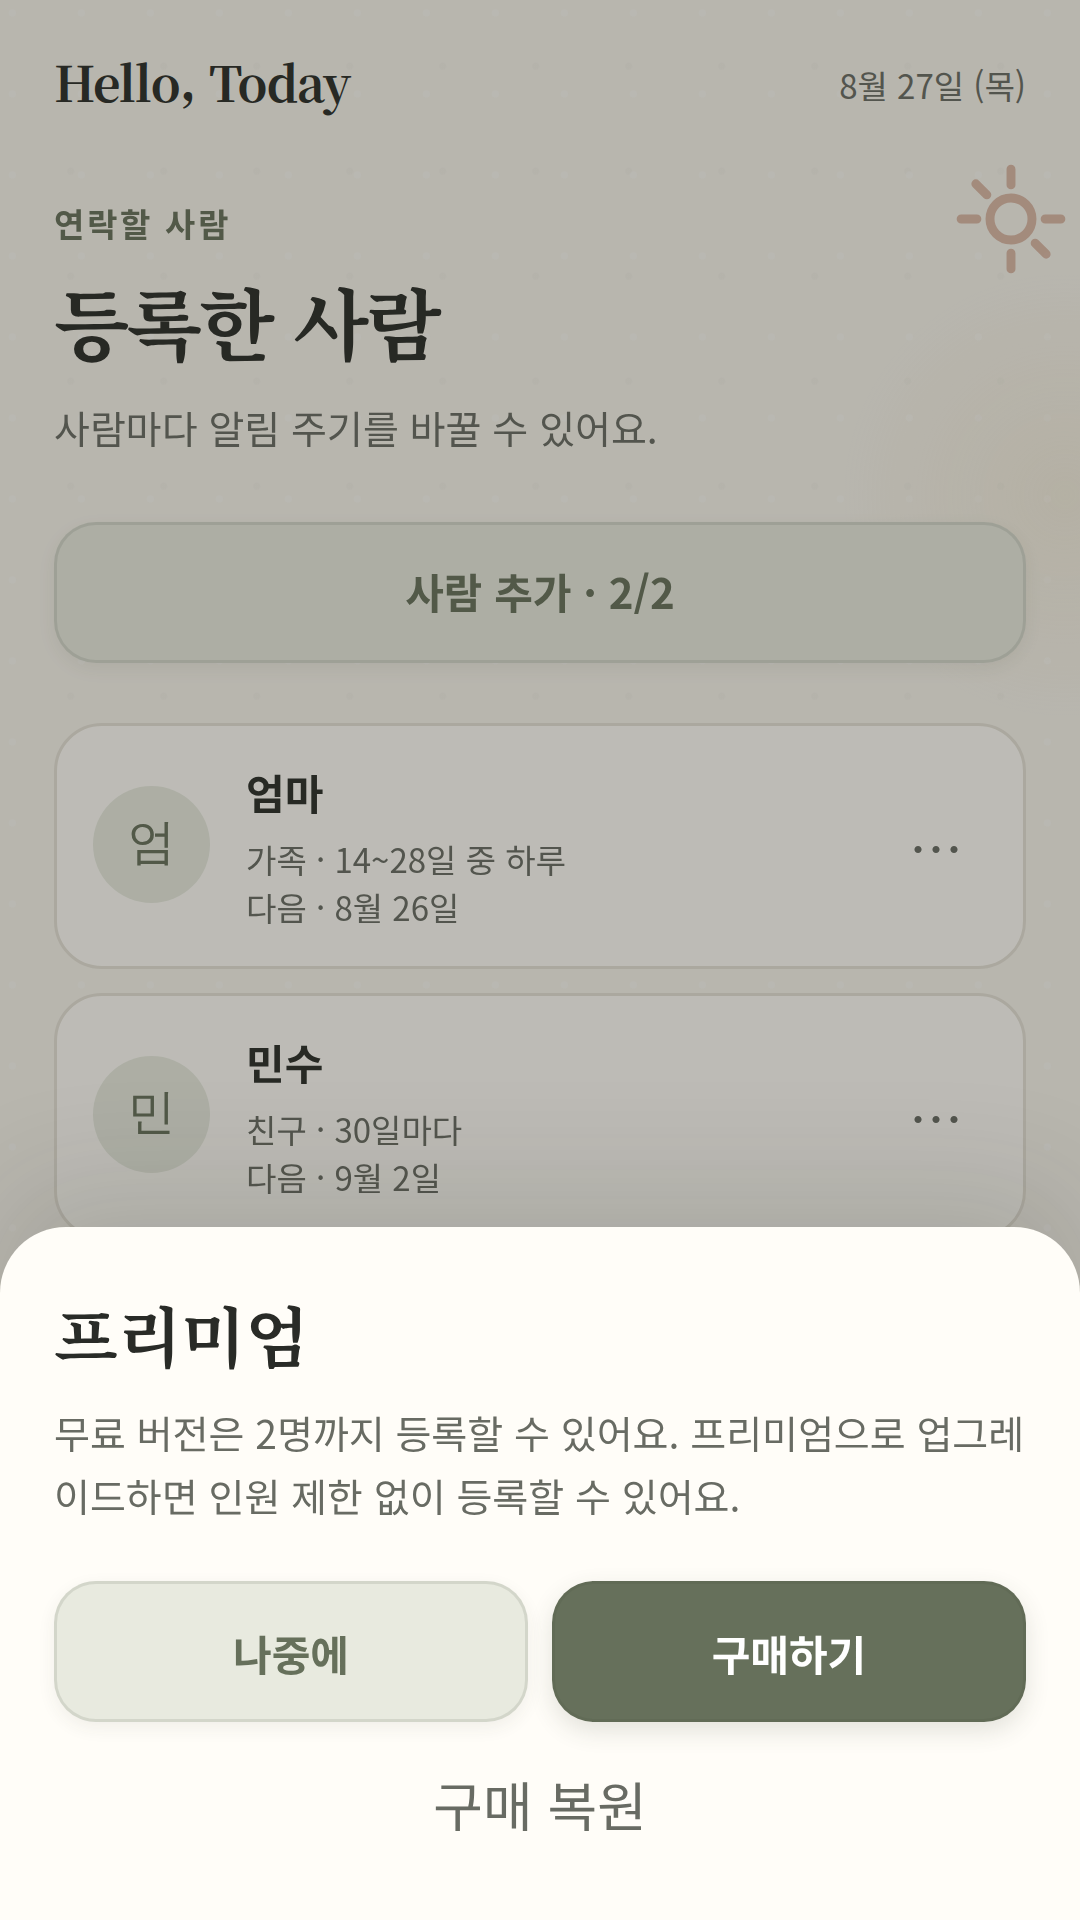
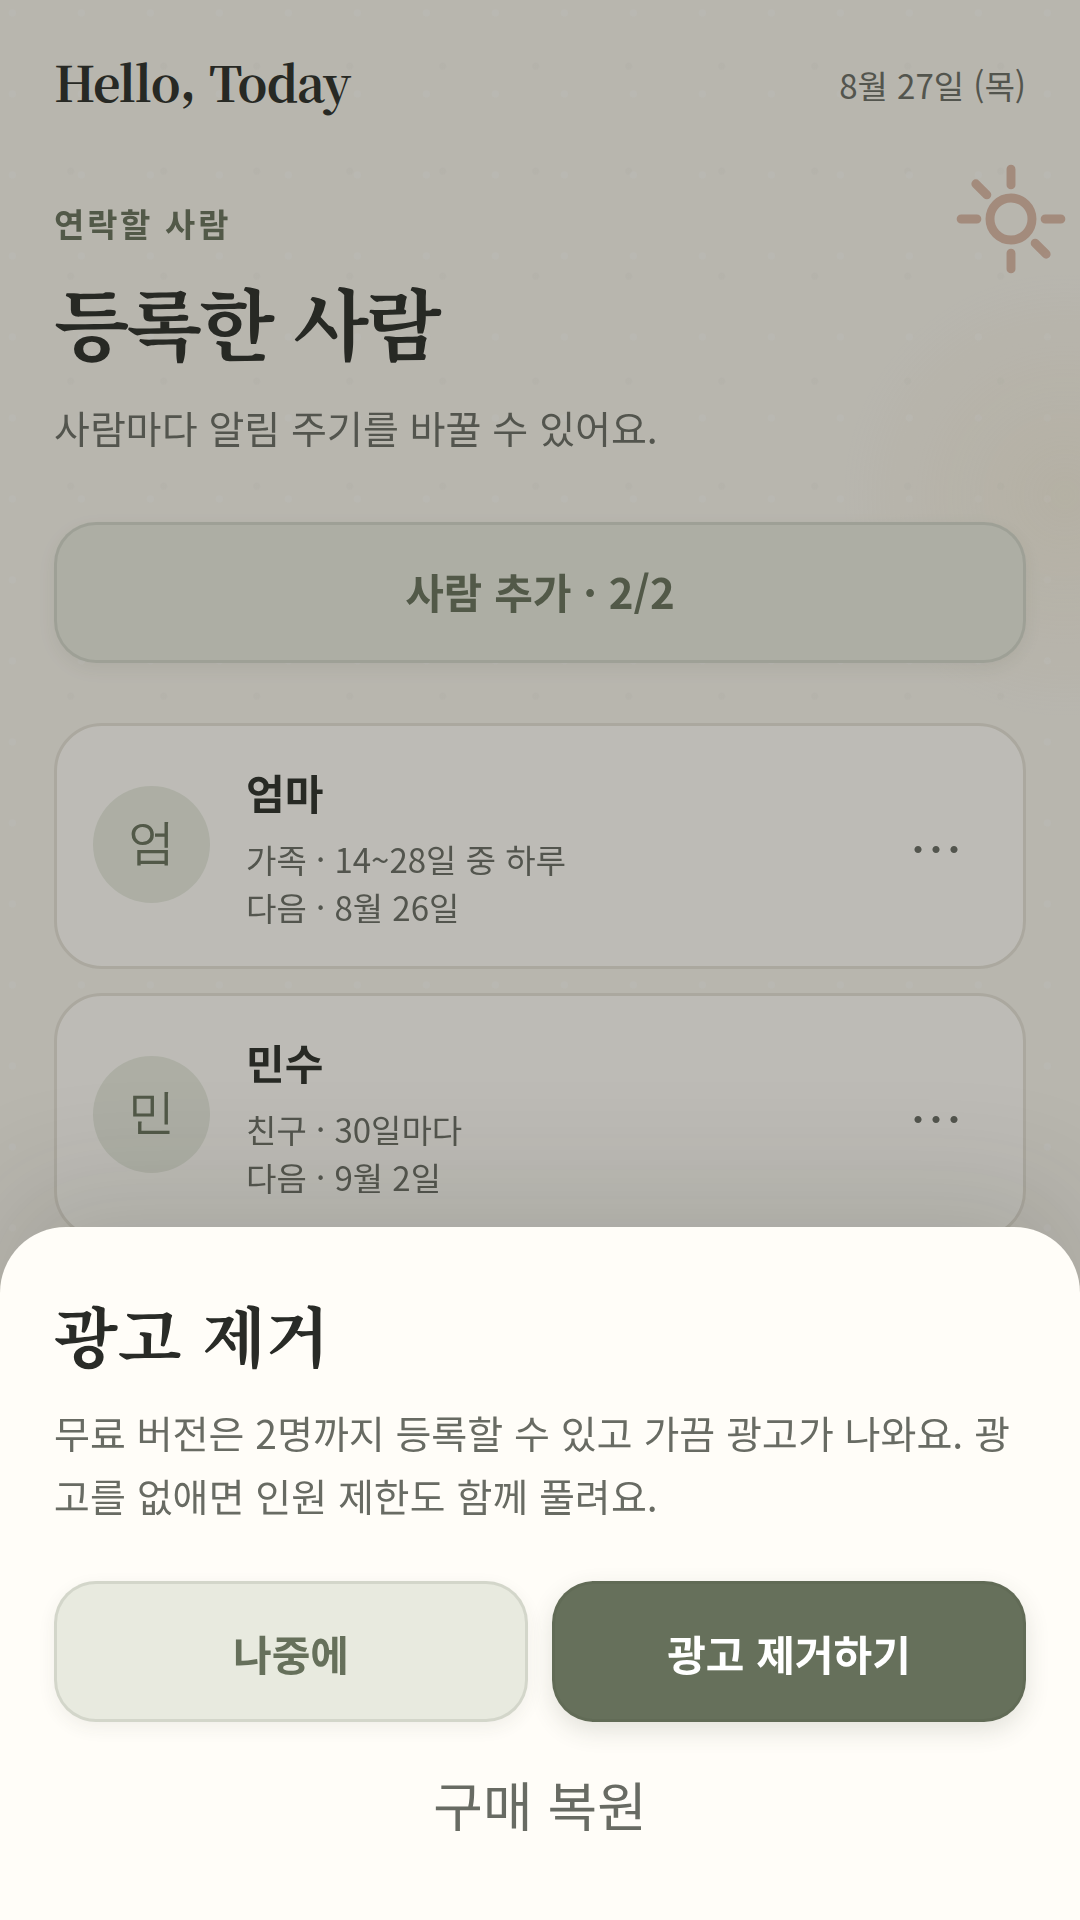
광고 제거 프레이밍으로 전환 + Google AdMob 전면 광고 통합
요청: 프리미엄 단일 상품을 "광고 제거"로 프레이밍하고, 인원 제한 해제는
덤으로 따라오게. 결제 메커니즘(PremiumBilling)은 그대로 재사용 -- 상품
ID만 premium_unlimited_people -> remove_ads로 변경(실제 구매 이력이
없는 지금이 이름을 바로잡을 유일한 타이밍), 유저 대상 카피만 전부
"광고 제거" 중심으로 다시 씀. 코드 레벨 식별자(PremiumBilling,
state.settings.premium, onPremiumStatus 등)는 그대로 둠.

신규: Google AdMob 전면 광고
- app/build.gradle.kts: com.google.android.gms:play-services-ads:25.3.0
- AndroidManifest.xml: INTERNET/ACCESS_NETWORK_STATE 권한 추가(광고에
  실제 네트워크 필요, 기존엔 없었음), AdMob APPLICATION_ID meta-data
  (Google 공개 테스트 App ID)
- InterstitialAdManager.java (신규): "연락했어요" 기록 3번에 1번만 전면
  광고 표시(index.html의 complete()에서 딱 한 군데 호출), 광고 제거
  구매 시 즉시 중단. 광고 단위 ID도 Google 공개 테스트 ID 사용 중 --
  실제 배포 전 AdMob 계정 만들어서 진짜 ID로 교체 필요
- index.html: 프리미엄 시트/설정 행 카피를 "광고 제거"(+인원 제한 보너스
  언급) 중심으로 재작성

로컬 검증: node test-regression.js 통과(광고 SDK 목 추가), JS 문법 체크
통과, AndroidManifest.xml에서 XML 주석 안에 "--"를 써서 생긴 파싱 에러를
로컬 gradlew 실행으로 미리 잡아 수정함(XML 주석은 "--"를 내용에 못 씀).

갱신: 개인정보처리방침(Artifact, 광고 SDK 고지 추가 -- "광고 없음" 문구
삭제), README, PLAY_CONSOLE_LAUNCH.md(광고 정책 신고/Data safety/AdMob
연동 절차/테스터 전달문), 프리미엄+설정 스토어 스크린샷 재캡처.

미완료(다음 AdMob 계정 생성 후 이어서): 실제 App ID/광고 단위 ID 교체,
UMP(EEA/영국 동의) SDK 연동.

Claude-Session: https://claude.ai/code/session_018c6RYZtD4SNnfh7zxgqkwA

diff --git a/hellotoday-app/test-regression.js b/hellotoday-app/test-regression.js
@@ -51,7 +51,7 @@ const context = {
   },
   window: {addEventListener: () => {}},
   navigator: {language: 'ko-KR'},
-  HelloNative: {schedule: () => {}, cancel: () => {}, syncSettings: () => {}, setLanguage: () => {}, syncAppearance: () => {}, isPremium: () => false, purchasePremium: () => {}, restorePurchases: () => {}},
+  HelloNative: {schedule: () => {}, cancel: () => {}, syncSettings: () => {}, setLanguage: () => {}, syncAppearance: () => {}, isPremium: () => false, purchasePremium: () => {}, restorePurchases: () => {}, maybeShowInterstitial: () => {}},
   atob: value => Buffer.from(value, 'base64').toString('binary'),
   TextDecoder,
   Uint8Array,

diff --git a/hellotoday-app/app/src/main/java/studio/howling/hellotoday/InterstitialAdManager.java b/hellotoday-app/app/src/main/java/studio/howling/hellotoday/InterstitialAdManager.java
@@ -1,0 +1,89 @@
+package studio.howling.hellotoday;
+
+import android.app.Activity;
+import android.content.Context;
+import android.content.SharedPreferences;
+
+import com.google.android.gms.ads.AdError;
+import com.google.android.gms.ads.AdRequest;
+import com.google.android.gms.ads.FullScreenContentCallback;
+import com.google.android.gms.ads.LoadAdError;
+import com.google.android.gms.ads.MobileAds;
+import com.google.android.gms.ads.interstitial.InterstitialAd;
+import com.google.android.gms.ads.interstitial.InterstitialAdLoadCallback;
+
+/**
+ * Interstitial ads for the free tier. `index.html` calls maybeShow() from
+ * one deliberate spot -- right after completing a "연락했어요" contact log
+ * (see complete() in index.html) -- a natural pause point, not mid-task.
+ * Shown at most every SHOW_EVERY_N_ACTIONS such calls, never every time:
+ * this app's whole pitch is being quiet and unobtrusive, and an interstitial
+ * on every single action would work against that.
+ *
+ * Never shown at all once PremiumBilling's ad-removal purchase is unlocked
+ * -- checked fresh on every call (not cached at construction), so buying
+ * mid-session takes effect on the very next would-be ad.
+ *
+ * ⚠ TEST_INTERSTITIAL_UNIT_ID below is Google's published placeholder
+ * (always serves test creatives, safe with no AdMob account at all).
+ * AndroidManifest.xml's APPLICATION_ID meta-data is the matching test App
+ * ID. Both must be swapped for this app's real AdMob IDs before a real
+ * release -- see PLAY_CONSOLE_LAUNCH.md. Also not yet done: the User
+ * Messaging Platform (UMP) consent flow Google requires for EEA/UK users
+ * before showing personalized ads -- that needs a real AdMob account to
+ * configure the consent form in the first place, so it's blocked on the
+ * same prerequisite as the real ad unit IDs.
+ */
+final class InterstitialAdManager {
+    static final String TEST_INTERSTITIAL_UNIT_ID = "ca-app-pub-3940256099942544/1033173712";
+    private static final String PREFS = "hello_today_ads";
+    private static final String KEY_ACTION_COUNT = "action_count";
+    private static final int SHOW_EVERY_N_ACTIONS = 3;
+
+    private final Activity activity;
+    private final PremiumBilling premiumBilling;
+    private volatile InterstitialAd loadedAd;
+
+    InterstitialAdManager(Activity activity, PremiumBilling premiumBilling) {
+        this.activity = activity;
+        this.premiumBilling = premiumBilling;
+    }
+
+    void start() {
+        MobileAds.initialize(activity, status -> loadNext());
+    }
+
+    /** Call from a natural pause point. No-op for ad-free users, and a
+     *  silent no-op (never blocks the caller) if no ad happens to be
+     *  loaded yet -- missing one impression beats stalling the UI. */
+    void maybeShow() {
+        if (premiumBilling.isUnlockedCached()) return;
+
+        SharedPreferences prefs = prefs();
+        int count = prefs.getInt(KEY_ACTION_COUNT, 0) + 1;
+        prefs.edit().putInt(KEY_ACTION_COUNT, count).apply();
+        if (count % SHOW_EVERY_N_ACTIONS != 0) return;
+
+        InterstitialAd ad = loadedAd;
+        if (ad == null) return;
+        loadedAd = null;
+        ad.setFullScreenContentCallback(new FullScreenContentCallback() {
+            @Override public void onAdDismissedFullScreenContent() { loadNext(); }
+            @Override public void onAdFailedToShowFullScreenContent(AdError adError) { loadNext(); }
+        });
+        ad.show(activity);
+    }
+
+    private void loadNext() {
+        if (premiumBilling.isUnlockedCached()) return; // don't spend a load on a user who'll never see it
+        InterstitialAd.load(activity, TEST_INTERSTITIAL_UNIT_ID, new AdRequest.Builder().build(),
+                new InterstitialAdLoadCallback() {
+                    @Override public void onAdLoaded(InterstitialAd ad) { loadedAd = ad; }
+                    @Override public void onAdFailedToLoad(LoadAdError loadAdError) { loadedAd = null; }
+                });
+    }
+
+    private SharedPreferences prefs() {
+        return activity.getSharedPreferences(PREFS, Context.MODE_PRIVATE);
+    }
+}

diff --git a/hellotoday-app/app/src/main/java/studio/howling/hellotoday/PremiumBilling.java b/hellotoday-app/app/src/main/java/studio/howling/hellotoday/PremiumBilling.java
@@ -21,15 +21,20 @@ import java.util.Collections;
 import java.util.List;
 
 /**
- * Wraps Google Play Billing for the single premium unlock: a one-time,
- * non-consumable purchase (PRODUCT_ID) that lifts the free tier's
- * FREE_PEOPLE_LIMIT cap enforced in index.html's openPerson().
+ * Wraps Google Play Billing for the single paid unlock: a one-time,
+ * non-consumable purchase (PRODUCT_ID) framed to the user as "remove ads"
+ * (InterstitialAdManager checks the same flag) that also, as a bundled
+ * bonus, lifts the free tier's FREE_PEOPLE_LIMIT cap enforced in
+ * index.html's openPerson(). One purchase, two effects -- there's no
+ * separate ads-only or people-only product.
  *
  * Owned by MainActivity for the Activity's lifetime. Pushes state into the
  * WebView via window.onPremiumStatus/onPremiumPrice/onPurchaseFailed --
  * same evaluateJavascript pattern NativeBridge already uses elsewhere in
  * MainActivity, just originating from billing callbacks instead of a JS
- * bridge call.
+ * bridge call. (The window.* callback names still say "Premium" -- that's
+ * the internal/code-level name for this unlock; only the user-facing copy
+ * in index.html frames it as ad removal.)
  *
  * The in-app product with this ID has to be created in Play Console
  * (Monetize > Products > In-app products) before a real purchase can
@@ -42,7 +47,11 @@ import java.util.List;
  * ever becomes worth attacking.
  */
 final class PremiumBilling implements PurchasesUpdatedListener {
-    static final String PRODUCT_ID = "premium_unlimited_people";
+    // Renamed from premium_unlimited_people (2026-08-27) to match the new
+    // ad-removal framing, before any real Play Console product existed --
+    // safe to rename freely at this stage, would not be once real
+    // purchases existed against the old ID.
+    static final String PRODUCT_ID = "remove_ads";
     private static final String PREFS = "hello_today_premium";
     private static final String KEY_UNLOCKED = "unlocked";
 

diff --git a/hellotoday-app/app/src/main/java/studio/howling/hellotoday/MainActivity.java b/hellotoday-app/app/src/main/java/studio/howling/hellotoday/MainActivity.java
@@ -21,6 +21,7 @@ import org.json.JSONObject;
 public class MainActivity extends Activity {
     private WebView web;
     private PremiumBilling premiumBilling;
+    private InterstitialAdManager adManager;
     private static final String INTERNAL_BACKUP = "hello_today_backup.json";
 
     @Override public void onCreate(Bundle state) {
@@ -40,6 +41,8 @@ public class MainActivity extends Activity {
         web.addJavascriptInterface(new NativeBridge(), "HelloNative");
         premiumBilling = new PremiumBilling(this, web);
         premiumBilling.start();
+        adManager = new InterstitialAdManager(this, premiumBilling);
+        adManager.start();
         FrameLayout safeRoot = new FrameLayout(this);
         safeRoot.setBackgroundColor(Color.rgb(248,245,237));
         safeRoot.addView(web, new FrameLayout.LayoutParams(-1, -1));
@@ -151,6 +154,10 @@ public class MainActivity extends Activity {
         }
         @JavascriptInterface public void restorePurchases() {
             if (premiumBilling != null) premiumBilling.refreshOwnedPurchases();
+        }
+        @JavascriptInterface public void maybeShowInterstitial() {
+            // InterstitialAd.show() requires the main thread.
+            runOnUiThread(() -> { if (adManager != null) adManager.maybeShow(); });
         }
     }
 

diff --git a/hellotoday-app/README.md b/hellotoday-app/README.md
@@ -110,13 +110,20 @@ it:
 When changing behavior, change `index.html` first — it's the app, the same
 way `RunManager.gd` is the whole economy in `game/`.
 
-## Premium unlock (Play Billing)
+## Monetization: ads (free tier) + one purchase that removes them
 
-One-time, non-consumable purchase (`PremiumBilling.PRODUCT_ID =
-"premium_unlimited_people"`) that lifts the free tier's people-count cap.
-The cap itself (`FREE_PEOPLE_LIMIT`, currently 2) was already implemented
-in `index.html` before this — `openPerson()` blocked a 3rd person with a
-toast; the only thing added 2026-08-27 was an actual way to lift it.
+The free tier shows an occasional interstitial ad and caps registered
+people at `FREE_PEOPLE_LIMIT` (2); a single one-time purchase
+(`PremiumBilling.PRODUCT_ID = "remove_ads"`) removes both. There is no
+separate ads-only or people-only product — one purchase, two effects,
+framed to the user as "광고 제거" (remove ads) since that's the primary
+pitch, with the people-limit lift as a bundled bonus. (The code-level
+names — `PremiumBilling`, `state.settings.premium`, `onPremiumStatus` —
+still say "premium"; only the user-facing copy changed. The people-count
+cap itself predates all of this — `openPerson()` blocked a 3rd person with
+a toast before any purchase mechanism existed to lift it.)
+
+### Ad-removal purchase
 
 - **JS side** (`index.html`): `state.settings.premium` gates `openPerson()`;
   hitting the cap opens `overlay={type:'premium'}` (an upsell sheet, not
@@ -139,13 +146,39 @@ toast; the only thing added 2026-08-27 was an actual way to lift it.
   unlock; revisit with real receipt verification if this product line ever
   becomes worth attacking.
 - **Not yet done, and blocking a real purchase from working**: the
-  `premium_unlimited_people` in-app product has to be created in Play
-  Console (Monetize → Products → In-app products) after the app's first
-  upload — nothing here can create it remotely. Until then,
-  `queryProductDetailsAsync` returns empty and `buyPremium()` fails
-  through `onPurchaseFailed()` (verify this in the CI-built APK on a real
-  device/Play-signed build once the app exists in Play Console, not in the
-  Node tests below — Billing doesn't run in a JS `vm` context or Playwright).
+  `remove_ads` in-app product has to be created in Play Console (Monetize →
+  Products → In-app products) after the app's first upload — nothing here
+  can create it remotely. Until then, `queryProductDetailsAsync` returns
+  empty and `buyPremium()` fails through `onPurchaseFailed()` (verify this
+  in the CI-built APK on a real device/Play-signed build once the app
+  exists in Play Console, not in the Node tests below — Billing doesn't run
+  in a JS `vm` context or Playwright).
+
+### Interstitial ads
+
+- **JS side**: `complete()` in `index.html` — right after logging a
+  "연락했어요" contact — calls `HelloNative.maybeShowInterstitial()`. That's
+  the only call site; ads are never triggered from navigation or app open.
+- **Native side** (`InterstitialAdManager.java`): shows at most every 3rd
+  such call (`SHOW_EVERY_N_ACTIONS`), and never at all once
+  `PremiumBilling.isUnlockedCached()` is true — checked fresh on every call,
+  so a purchase mid-session silences ads on the very next would-be one. A
+  missing/failed ad load is a silent no-op, never a blocked UI.
+- **⚠ Placeholder IDs, not this app's real ones**: `AndroidManifest.xml`'s
+  `com.google.android.gms.ads.APPLICATION_ID` and
+  `InterstitialAdManager.TEST_INTERSTITIAL_UNIT_ID` are Google's published
+  *test* IDs (`ca-app-pub-3940256099942544~3347511713` /
+  `ca-app-pub-3940256099942544/1033173712`) — always safe, always serve
+  test creatives, no AdMob account needed to build/run with them. They
+  **must** be swapped for this app's real AdMob App ID and ad unit ID
+  before a real release (see `PLAY_CONSOLE_LAUNCH.md`), or Google can
+  suspend the account for serving real impressions against IDs that
+  self-declare as a test app.
+- **Not yet done**: the User Messaging Platform (UMP) consent flow Google
+  requires before showing ads to EEA/UK users. That needs a real AdMob
+  account to configure the consent form in Play Console/AdMob first, so
+  it's blocked on the same prerequisite as the real ad unit IDs above —
+  don't ship to those regions without it.
 
 ## Testing
 
@@ -206,7 +239,14 @@ handoff document for whoever actually clicks through Play Console.
 - `expectedArt` in `test-regression.js` pins the SHA-256 of the three
   illustration PNGs under `app/src/main/assets/img/` — replacing artwork
   must update those hashes too.
-- Play Billing is integrated (see "Premium unlock" above) but untested
-  against a real Play Console listing, since the in-app product doesn't
-  exist there yet. Don't assume the purchase flow works end-to-end until
-  it's been through that once.
+- Play Billing is integrated (see "Monetization" above) but untested
+  against a real Play Console listing, since the `remove_ads` in-app
+  product doesn't exist there yet. Don't assume the purchase flow works
+  end-to-end until it's been through that once.
+- Ads are wired up against Google's test IDs only. Before a real release:
+  create the AdMob account/app/ad unit, swap both IDs (manifest +
+  `InterstitialAdManager`), and implement the UMP consent flow — none of
+  that can happen without the AdMob account existing first.
+- The privacy policy (linked from `PLAY_CONSOLE_LAUNCH.md`) was written
+  before ads existed and needs a pass to disclose the AdMob SDK before
+  submitting to Play Console — don't ship the old "no ads" wording.
